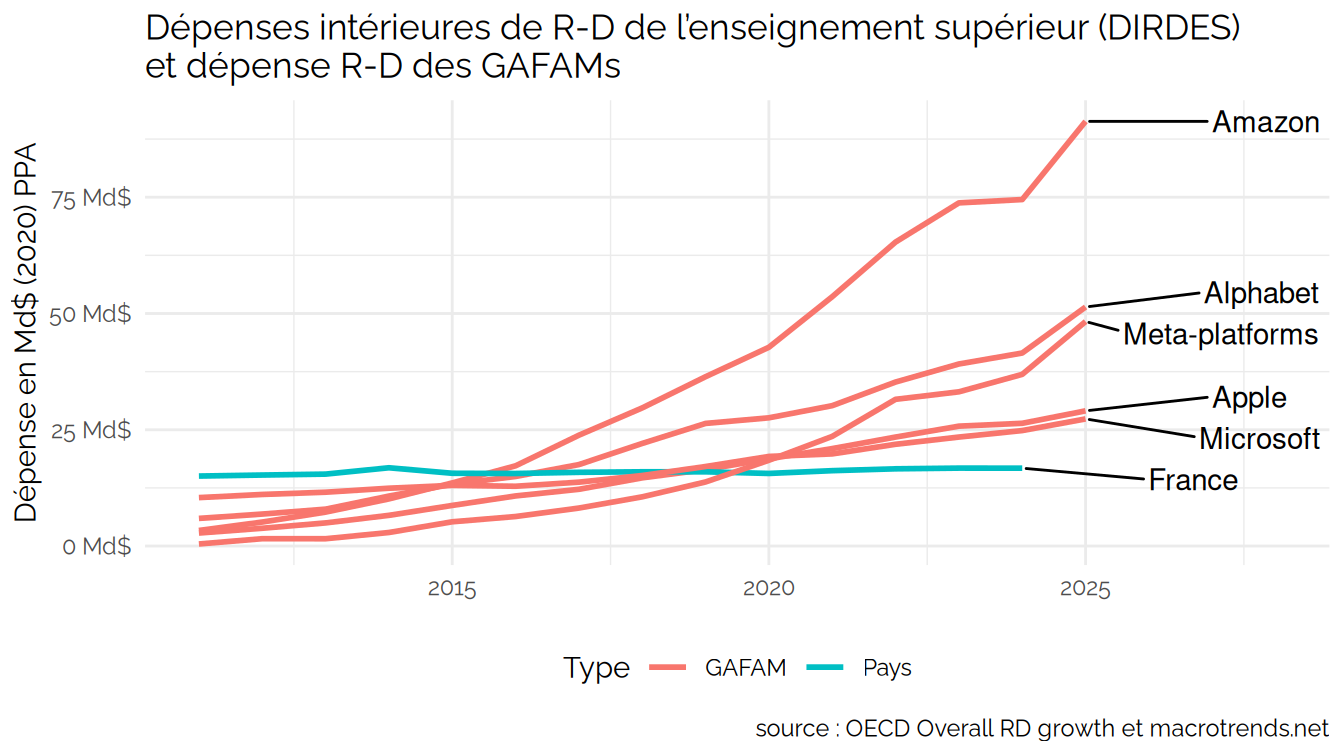
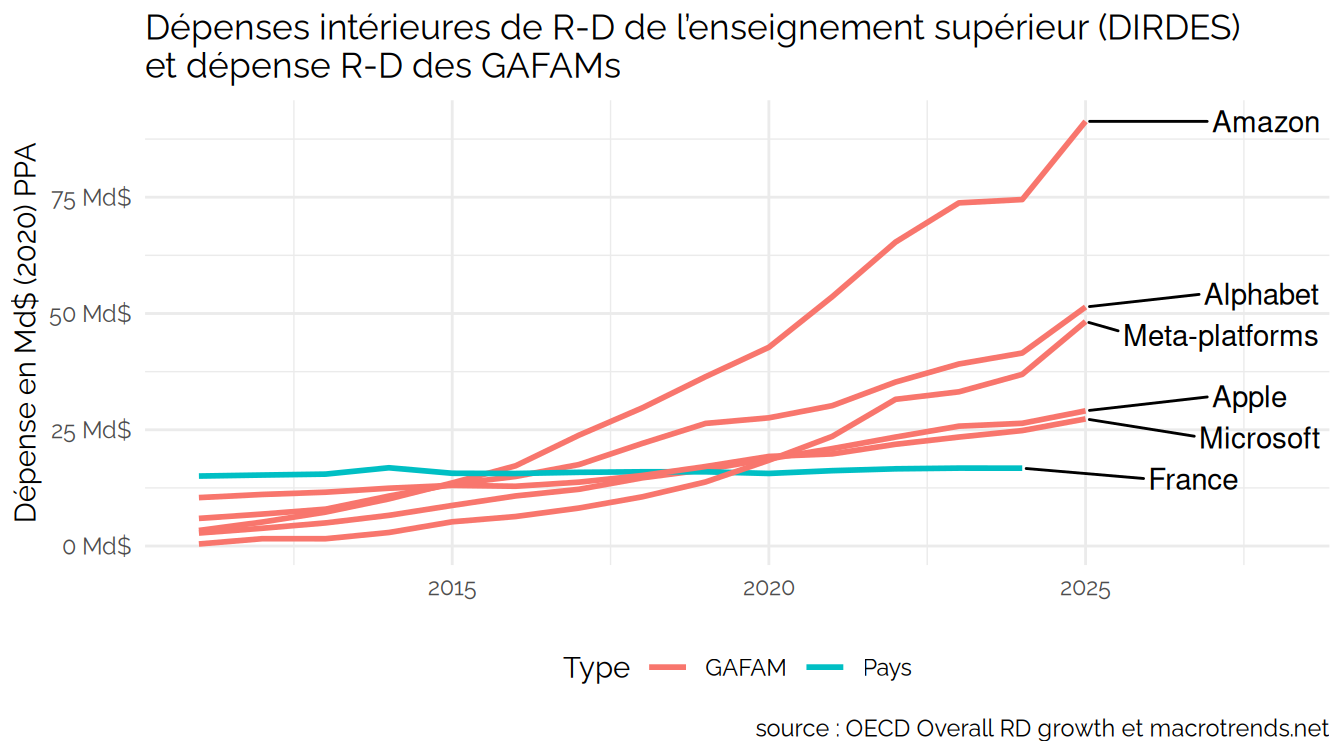
maj plots

Changed region(s): [[0.8125, 0.3651, 1.0, 0.4563], [0.875, 0.5172, 0.9688, 0.6085], [0.8125, 0.6085, 0.9062, 0.6693]]

diff --git a/ressources/data/plots.md b/ressources/data/plots.md
@@ -154,7 +154,7 @@ Source :
 
 ## Budget RD
 
-<img src="plots_files/figure-gfm/unnamed-chunk-16-1.png" width="672" /><img src="plots_files/figure-gfm/unnamed-chunk-16-2.png" width="672" />
+<img src="plots_files/figure-gfm/unnamed-chunk-16-1.png" width="672" />
 
 <img src="plots_files/figure-gfm/unnamed-chunk-17-1.png" width="672" />
 
